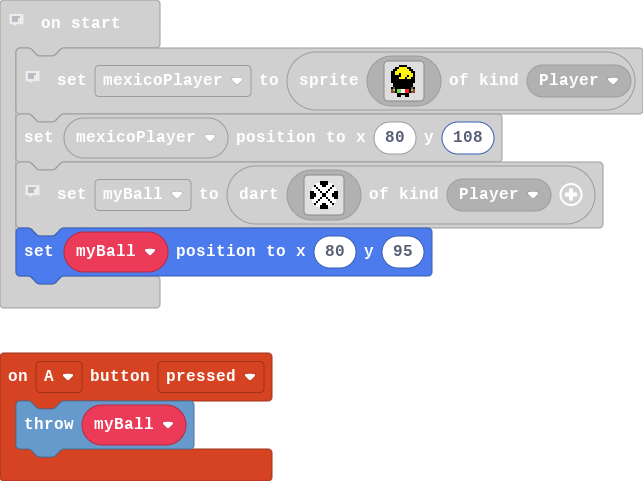
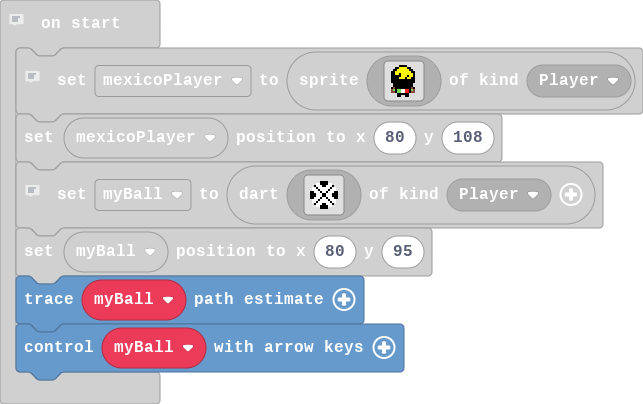
trace myBall and control it with arrow keys.

diff --git a/main.ts b/main.ts
@@ -44,3 +44,5 @@ myBall = darts.create(img`
     . . . . . . . . . . . . . . . . 
     `, SpriteKind.Player)
 myBall.setPosition(80, 95)
+myBall.setTrace()
+myBall.controlWithArrowKeys()
